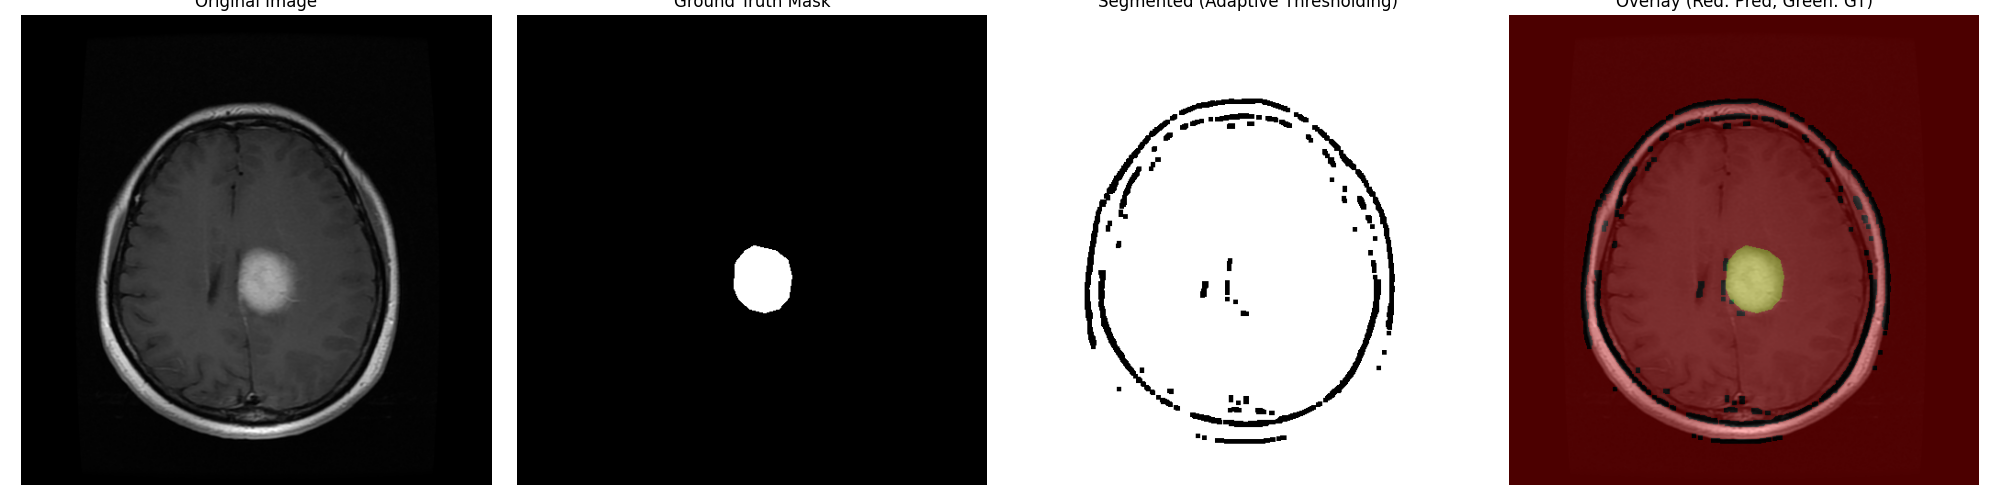
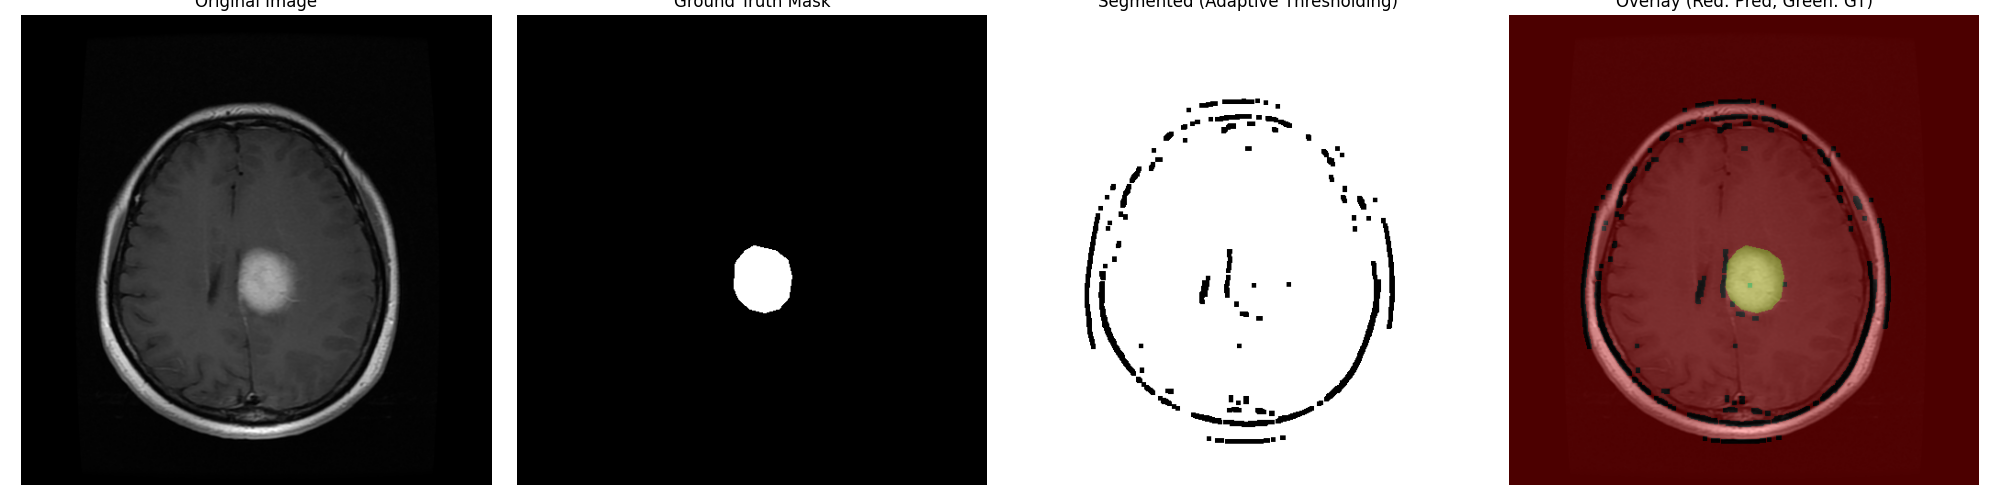
1

diff --git a/tugas_pcvk_3.py b/tugas_pcvk_3.py
@@ -46,20 +46,37 @@ def load_image(path, grayscale=False):
 
 def preprocess_image(image):
     """Preprocess image: denoising and normalization"""
-    # Convert to grayscale if needed
+    # 1. Convert to grayscale if needed
     if len(image.shape) == 3:
         gray = cv2.cvtColor(image, cv2.COLOR_RGB2GRAY)
     else:
         gray = image.copy()
-
-    # Denoising
+    ret, thresh = cv2.threshold(gray, 0, 255, cv2.THRESH_BINARY + cv2.THRESH_OTSU)
+    
+    # 2. find largest contour
+    contours, _ = cv2.findContours(thresh, cv2.RETR_EXTERNAL, cv2.CHAIN_APPROX_SIMPLE)
+    if len(contours) == 0:
+        return image
+        
+    c = max(contours, key=cv2.contourArea)
+    
+    # 3. create mask
+    mask = np.zeros(gray.shape, np.uint8)
+    cv2.drawContours(mask, [c], -1, 255, -1)
+    
+    # 4. apply mask
+    gray = cv2.bitwise_and(gray, gray, mask=mask)
+    clahe = cv2.createCLAHE(clipLimit=1.0, tileGridSize=(8, 8))
+    gray = clahe.apply(gray)
+   
+    # 5. Denoising
     denoised = cv2.GaussianBlur(gray, (5, 5), 0)
 
-    # Normalize
+    # 6. Normalize
     normalized = cv2.normalize(denoised, None, 0, 255, cv2.NORM_MINMAX)
-    # normalized = cv2.normalize(gray, None, 0, 255, cv2.NORM_MINMAX)
 
     return normalized
+
 
 def calculate_metrics(pred_mask, true_mask):
     """Calculate segmentation metrics: Dice, IoU, Accuracy"""
@@ -124,33 +141,67 @@ def multi_otsu_thresholding(image, n_classes=3):
     return tumor_mask
 
 """# KMean Segementation"""
-
-def kmeans_segmentation(image, k=3):
+def kmeans_segmentation(image, k=4, spatial_weight=0.2):
     """
-    K-means Clustering Segmentation
-    Mengelompokkan pixel berdasarkan intensitas
+    改进版 K-Means：
+    1. 引入空间特征 (x, y)，增强区域连续性
+    2. 智能筛选肿瘤簇 (基于亮度和大小)
+    3. 增加形态学后处理
     """
+    # 1. 获取预处理后的图像 (假设您已经使用了最新的 preprocess_image)
     preprocessed = preprocess_image(image)
+    h, w = preprocessed.shape
+    
+    # 2. 构建特征向量 [亮度, 权重*X, 权重*Y]
+    # 归一化亮度到 0-1
+    pixel_values = preprocessed.reshape(-1, 1).astype(np.float32) / 255.0
+    
+    # 生成坐标特征并归一化到 0-1
+    x = np.linspace(0, 1, w)
+    y = np.linspace(0, 1, h)
+    xv, yv = np.meshgrid(x, y)
+    
+    # spatial_weight 控制空间位置的重要性。
+    # 0.5 意味着位置差异对聚类的影响是亮度差异的一半。
+    x_features = xv.reshape(-1, 1).astype(np.float32) * spatial_weight
+    y_features = yv.reshape(-1, 1).astype(np.float32) * spatial_weight
+    
+    # 合并特征
+    features = np.hstack((pixel_values, x_features, y_features))
+    
+    # 3. 执行 K-Means
+    # n_init=20 增加尝试次数，避免陷入局部最优
+    kmeans = KMeans(n_clusters=k, random_state=42, n_init=20) 
+    labels = kmeans.fit_predict(features)
+    segmented = labels.reshape(h, w)
+    
+    # 4. 智能选择肿瘤簇
+    cluster_stats = []
+    for i in range(k):
+        mask = (segmented == i)
+        area = np.sum(mask)
+        
+        # 计算该簇在原图(预处理后)上的平均亮度
+        mean_val = preprocessed[mask].mean()
+        
+        # 过滤掉面积太小(噪点)或太大(背景)的区域
+        # 假设肿瘤面积至少大于 50 像素，且不超过全图的 1/4 (避免选中背景)
+        if area > 50 and area < (h * w * 0.25):
+            cluster_stats.append({'id': i, 'mean': mean_val})
+    
+    # 如果没找到合适的簇，退化为简单的最亮簇选择
+    if not cluster_stats:
+        cluster_means = [preprocessed[segmented == i].mean() for i in range(k)]
+        tumor_label = np.argmax(cluster_means)
+    else:
+        # 按亮度从高到低排序，选最亮的那个
+        cluster_stats.sort(key=lambda x: x['mean'], reverse=True)
+        tumor_label = cluster_stats[0]['id']
 
-    # Reshape image for K-means
-    pixels = preprocessed.reshape(-1, 1)
-
-    # Apply K-means
-    kmeans = KMeans(n_clusters=k, random_state=42, n_init=10)
-    labels = kmeans.fit_predict(pixels)
-
-    # Reshape back to image
-    segmented = labels.reshape(preprocessed.shape)
-
-    # Assume tumor is the brightest cluster
-    cluster_means = [preprocessed[segmented == i].mean() for i in range(k)]
-    tumor_label = np.argmax(cluster_means)
-
-    # Create binary mask
+    # 生成二值掩膜
     tumor_mask = (segmented == tumor_label).astype(np.uint8) * 255
-
+    
     return tumor_mask
-
 """# Region Growing"""
 
 def region_growing(image, seed=None, threshold=10):

diff --git a/test.py b/test.py
@@ -1,0 +1,65 @@
+def improved_kmeans_segmentation(image, k=4, spatial_weight=0.5):
+    """
+    改进版 K-Means：
+    1. 引入空间特征 (x, y)，增强区域连续性
+    2. 智能筛选肿瘤簇 (基于亮度和大小)
+    3. 增加形态学后处理
+    """
+    # 1. 获取预处理后的图像 (假设您已经使用了最新的 preprocess_image)
+    preprocessed = preprocess_image(image)
+    h, w = preprocessed.shape
+    
+    # 2. 构建特征向量 [亮度, 权重*X, 权重*Y]
+    # 归一化亮度到 0-1
+    pixel_values = preprocessed.reshape(-1, 1).astype(np.float32) / 255.0
+    
+    # 生成坐标特征并归一化到 0-1
+    x = np.linspace(0, 1, w)
+    y = np.linspace(0, 1, h)
+    xv, yv = np.meshgrid(x, y)
+    
+    # spatial_weight 控制空间位置的重要性。
+    # 0.5 意味着位置差异对聚类的影响是亮度差异的一半。
+    x_features = xv.reshape(-1, 1).astype(np.float32) * spatial_weight
+    y_features = yv.reshape(-1, 1).astype(np.float32) * spatial_weight
+    
+    # 合并特征
+    features = np.hstack((pixel_values, x_features, y_features))
+    
+    # 3. 执行 K-Means
+    # n_init=20 增加尝试次数，避免陷入局部最优
+    kmeans = KMeans(n_clusters=k, random_state=42, n_init=20) 
+    labels = kmeans.fit_predict(features)
+    segmented = labels.reshape(h, w)
+    
+    # 4. 智能选择肿瘤簇
+    cluster_stats = []
+    for i in range(k):
+        mask = (segmented == i)
+        area = np.sum(mask)
+        
+        # 计算该簇在原图(预处理后)上的平均亮度
+        mean_val = preprocessed[mask].mean()
+        
+        # 过滤掉面积太小(噪点)或太大(背景)的区域
+        # 假设肿瘤面积至少大于 50 像素，且不超过全图的 1/4 (避免选中背景)
+        if area > 50 and area < (h * w * 0.25):
+            cluster_stats.append({'id': i, 'mean': mean_val})
+    
+    # 如果没找到合适的簇，退化为简单的最亮簇选择
+    if not cluster_stats:
+        cluster_means = [preprocessed[segmented == i].mean() for i in range(k)]
+        tumor_label = np.argmax(cluster_means)
+    else:
+        # 按亮度从高到低排序，选最亮的那个
+        cluster_stats.sort(key=lambda x: x['mean'], reverse=True)
+        tumor_label = cluster_stats[0]['id']
+
+    # 生成二值掩膜
+    tumor_mask = (segmented == tumor_label).astype(np.uint8) * 255
+
+    # 5. 简单的形态学清理 (填补内部空洞)
+    # 这一步能把肿瘤内部可能存在的“黑洞”补上
+    tumor_mask = ndimage.binary_fill_holes(tumor_mask).astype(np.uint8) * 255
+    
+    return tumor_mask
